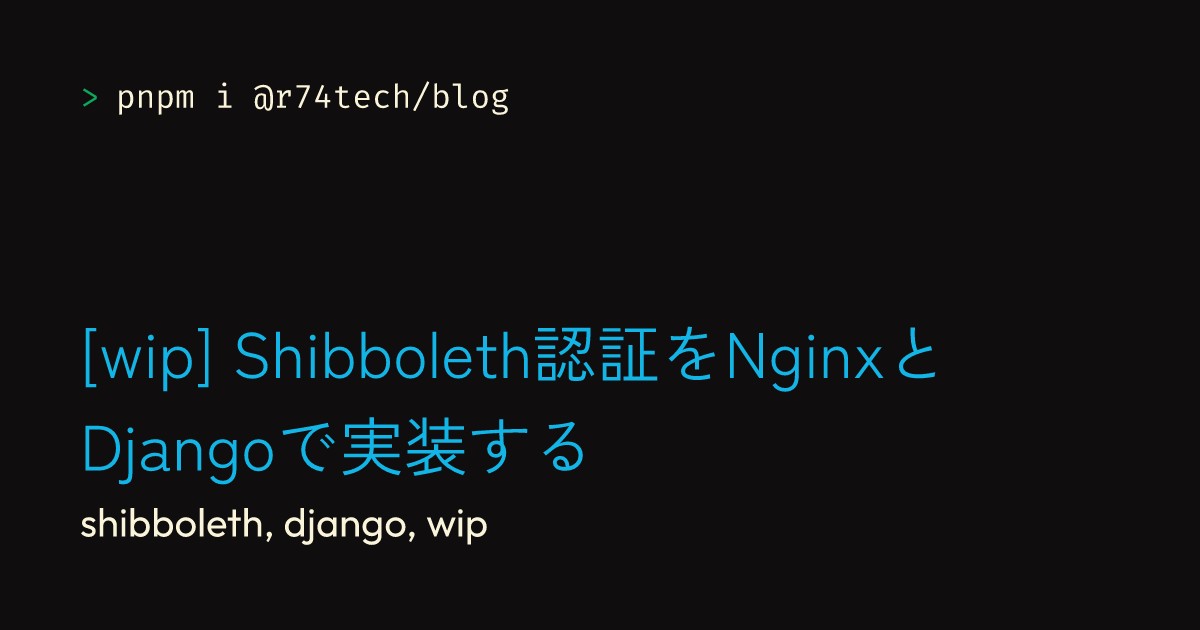
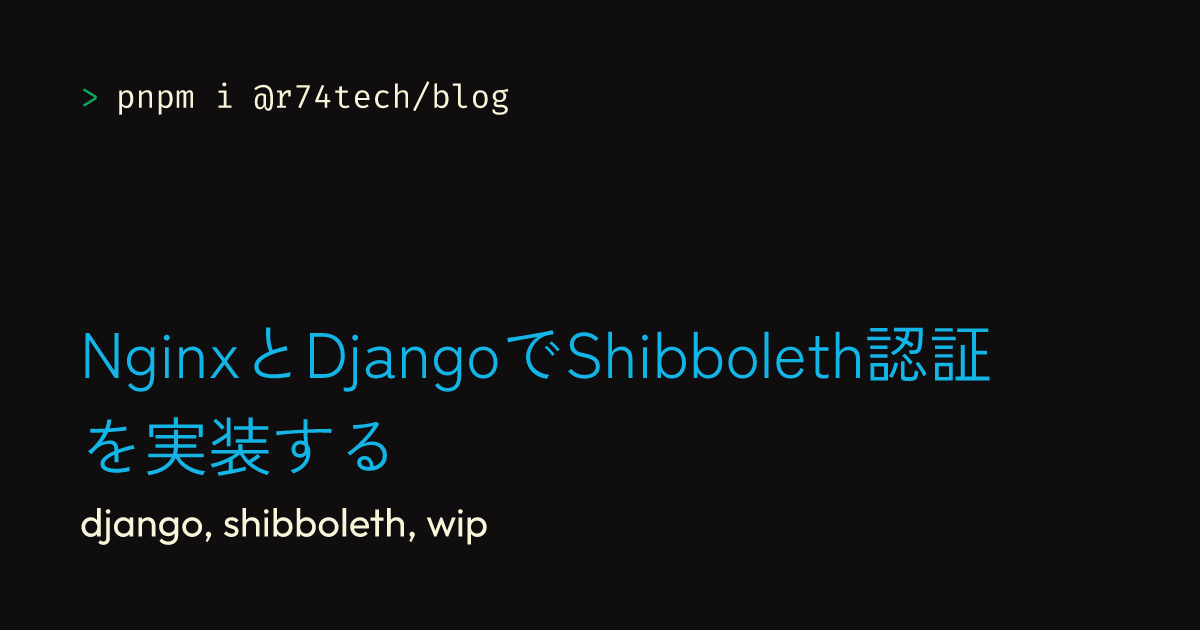
fix

diff --git a/ogGen.js b/ogGen.js
@@ -2,7 +2,6 @@ import { readdir, readFile, writeFile } from "fs/promises";
 import { join } from "path";
 import matter from "gray-matter";
 import { Resvg } from "@resvg/resvg-js";
-import { html } from "satori-html";
 import satori from "satori";
 import { loadDefaultJapaneseParser } from "budoux";
 

diff --git a/_posts/2024-03-21-shibboleth-nginx-django.md b/_posts/2024-03-21-shibboleth-nginx-django.md
@@ -1,11 +1,11 @@
 ---
-title: 'Shibboleth認証をNginxとDjangoで実装する'
+title: 'NginxとDjangoでShibboleth認証を実装する'
 author: r74tech
 categories:
   - web
 tags:
-  - shibboleth
   - django
+  - shibboleth
   - wip
 math: false
 mermaid: false

diff --git a/_posts/2024-02-29-generate-og.md b/_posts/2024-02-29-generate-og.md
@@ -4,8 +4,8 @@ author: r74tech
 categories:
   - web
 tags:
-  - js
   - front
+  - js
 math: false
 mermaid: false
 slug: 2024-02-29-generate-og

diff --git a/_posts/2024-03-06-breachingad.md b/_posts/2024-03-06-breachingad.md
@@ -4,8 +4,8 @@ author: r74tech
 categories:
   - tryhackme
 tags:
-  - thm
   - ad
+  - thm
   - wip
 math: false
 mermaid: false
